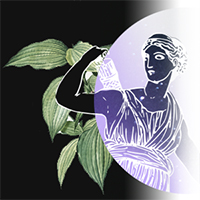
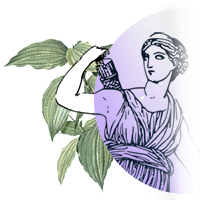
imágenes sección mayorista

diff --git a/mayorista.html b/mayorista.html
@@ -66,15 +66,15 @@
             </p>
             <p>Compra mínima: $8500</p>
             <article class="mayorista-section">
-             <div><img src="./img/mayorista/kit-artemisa2.jpg"></div>
+             <div><img src="./img/mayorista/kit-artemisa.jpg"></div>
              <div>
                <h5>Kit Artemisa</h5>
-               <p >Selección de productos básicos de aseo, cuidado corporal y capilar.</p>
+               <p >Selección kit básicos de productos de aseo, cuidado corporal y capilar.</p>
                <p class ="mayorista-kit">Valor $8500</p>
              </div>
            </article>
            <article class="mayorista-section">
-             <div><img src="./img/mayorista/kit-artemisa2.jpg"></div>
+             <div><img src="./img/mayorista/kit-febe.jpg"></div>
              <div>
              <h5>Kit Febe</h5>
               <p>Incorpora accesorios.</p>
@@ -82,7 +82,7 @@
              </div>
           </article>
           <article class="mayorista-section">
-            <div><img src="./img/mayorista/kit-artemisa2.jpg"></div>
+            <div><img src="./img/mayorista/kit-diosa.jpg"></div>
             <article">
             <div>
               <h5>Kit Triple Diosa</h5>
